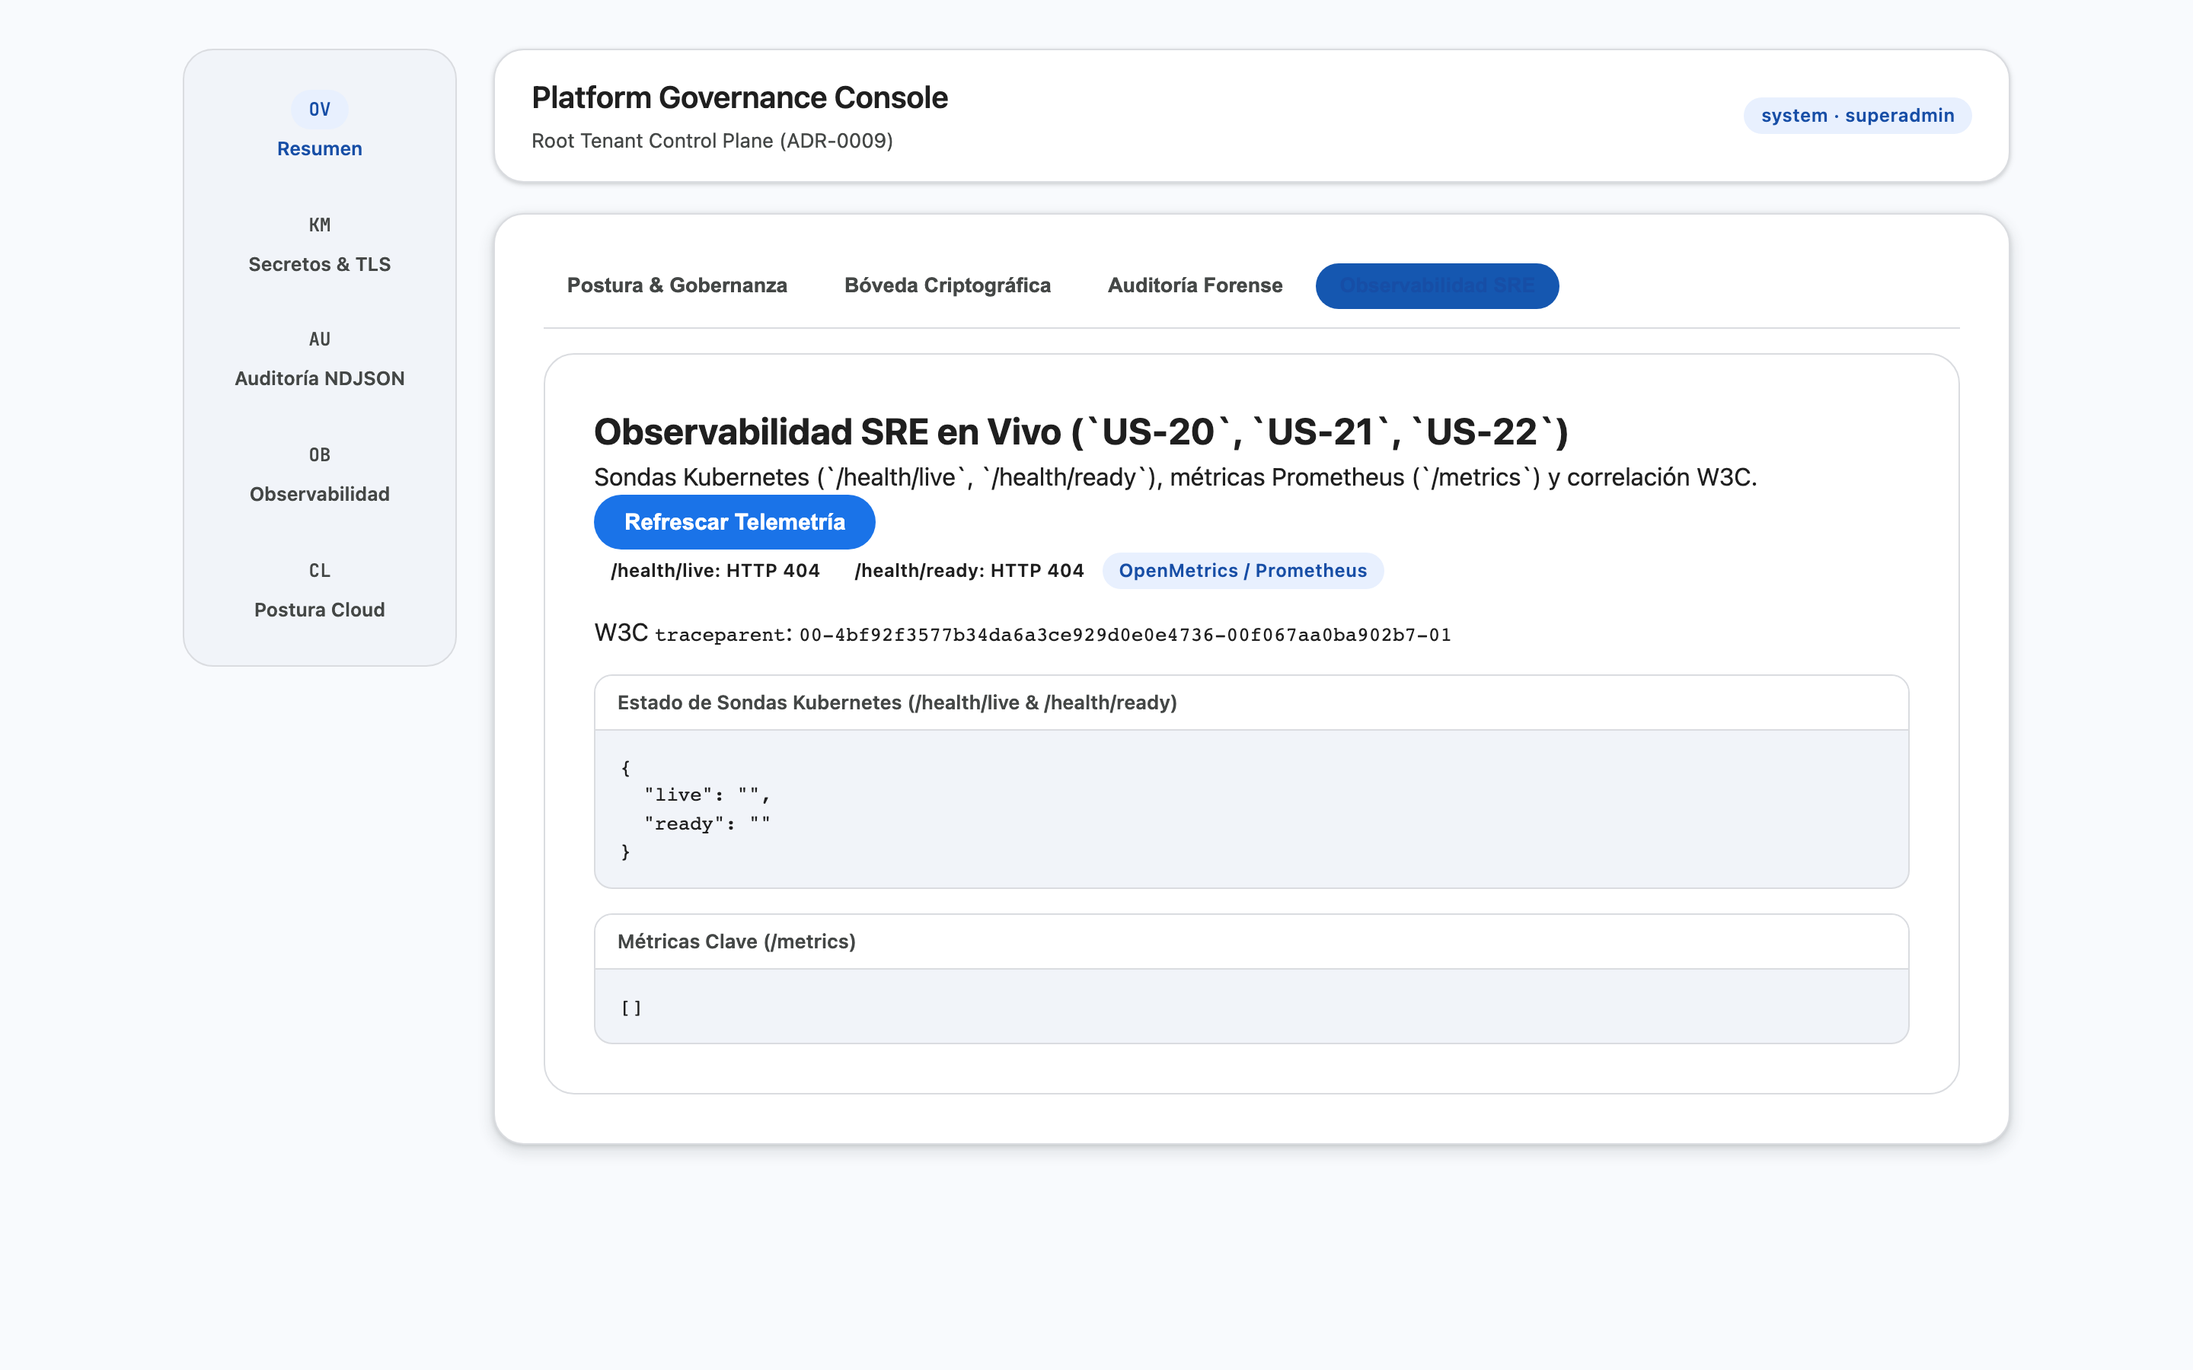
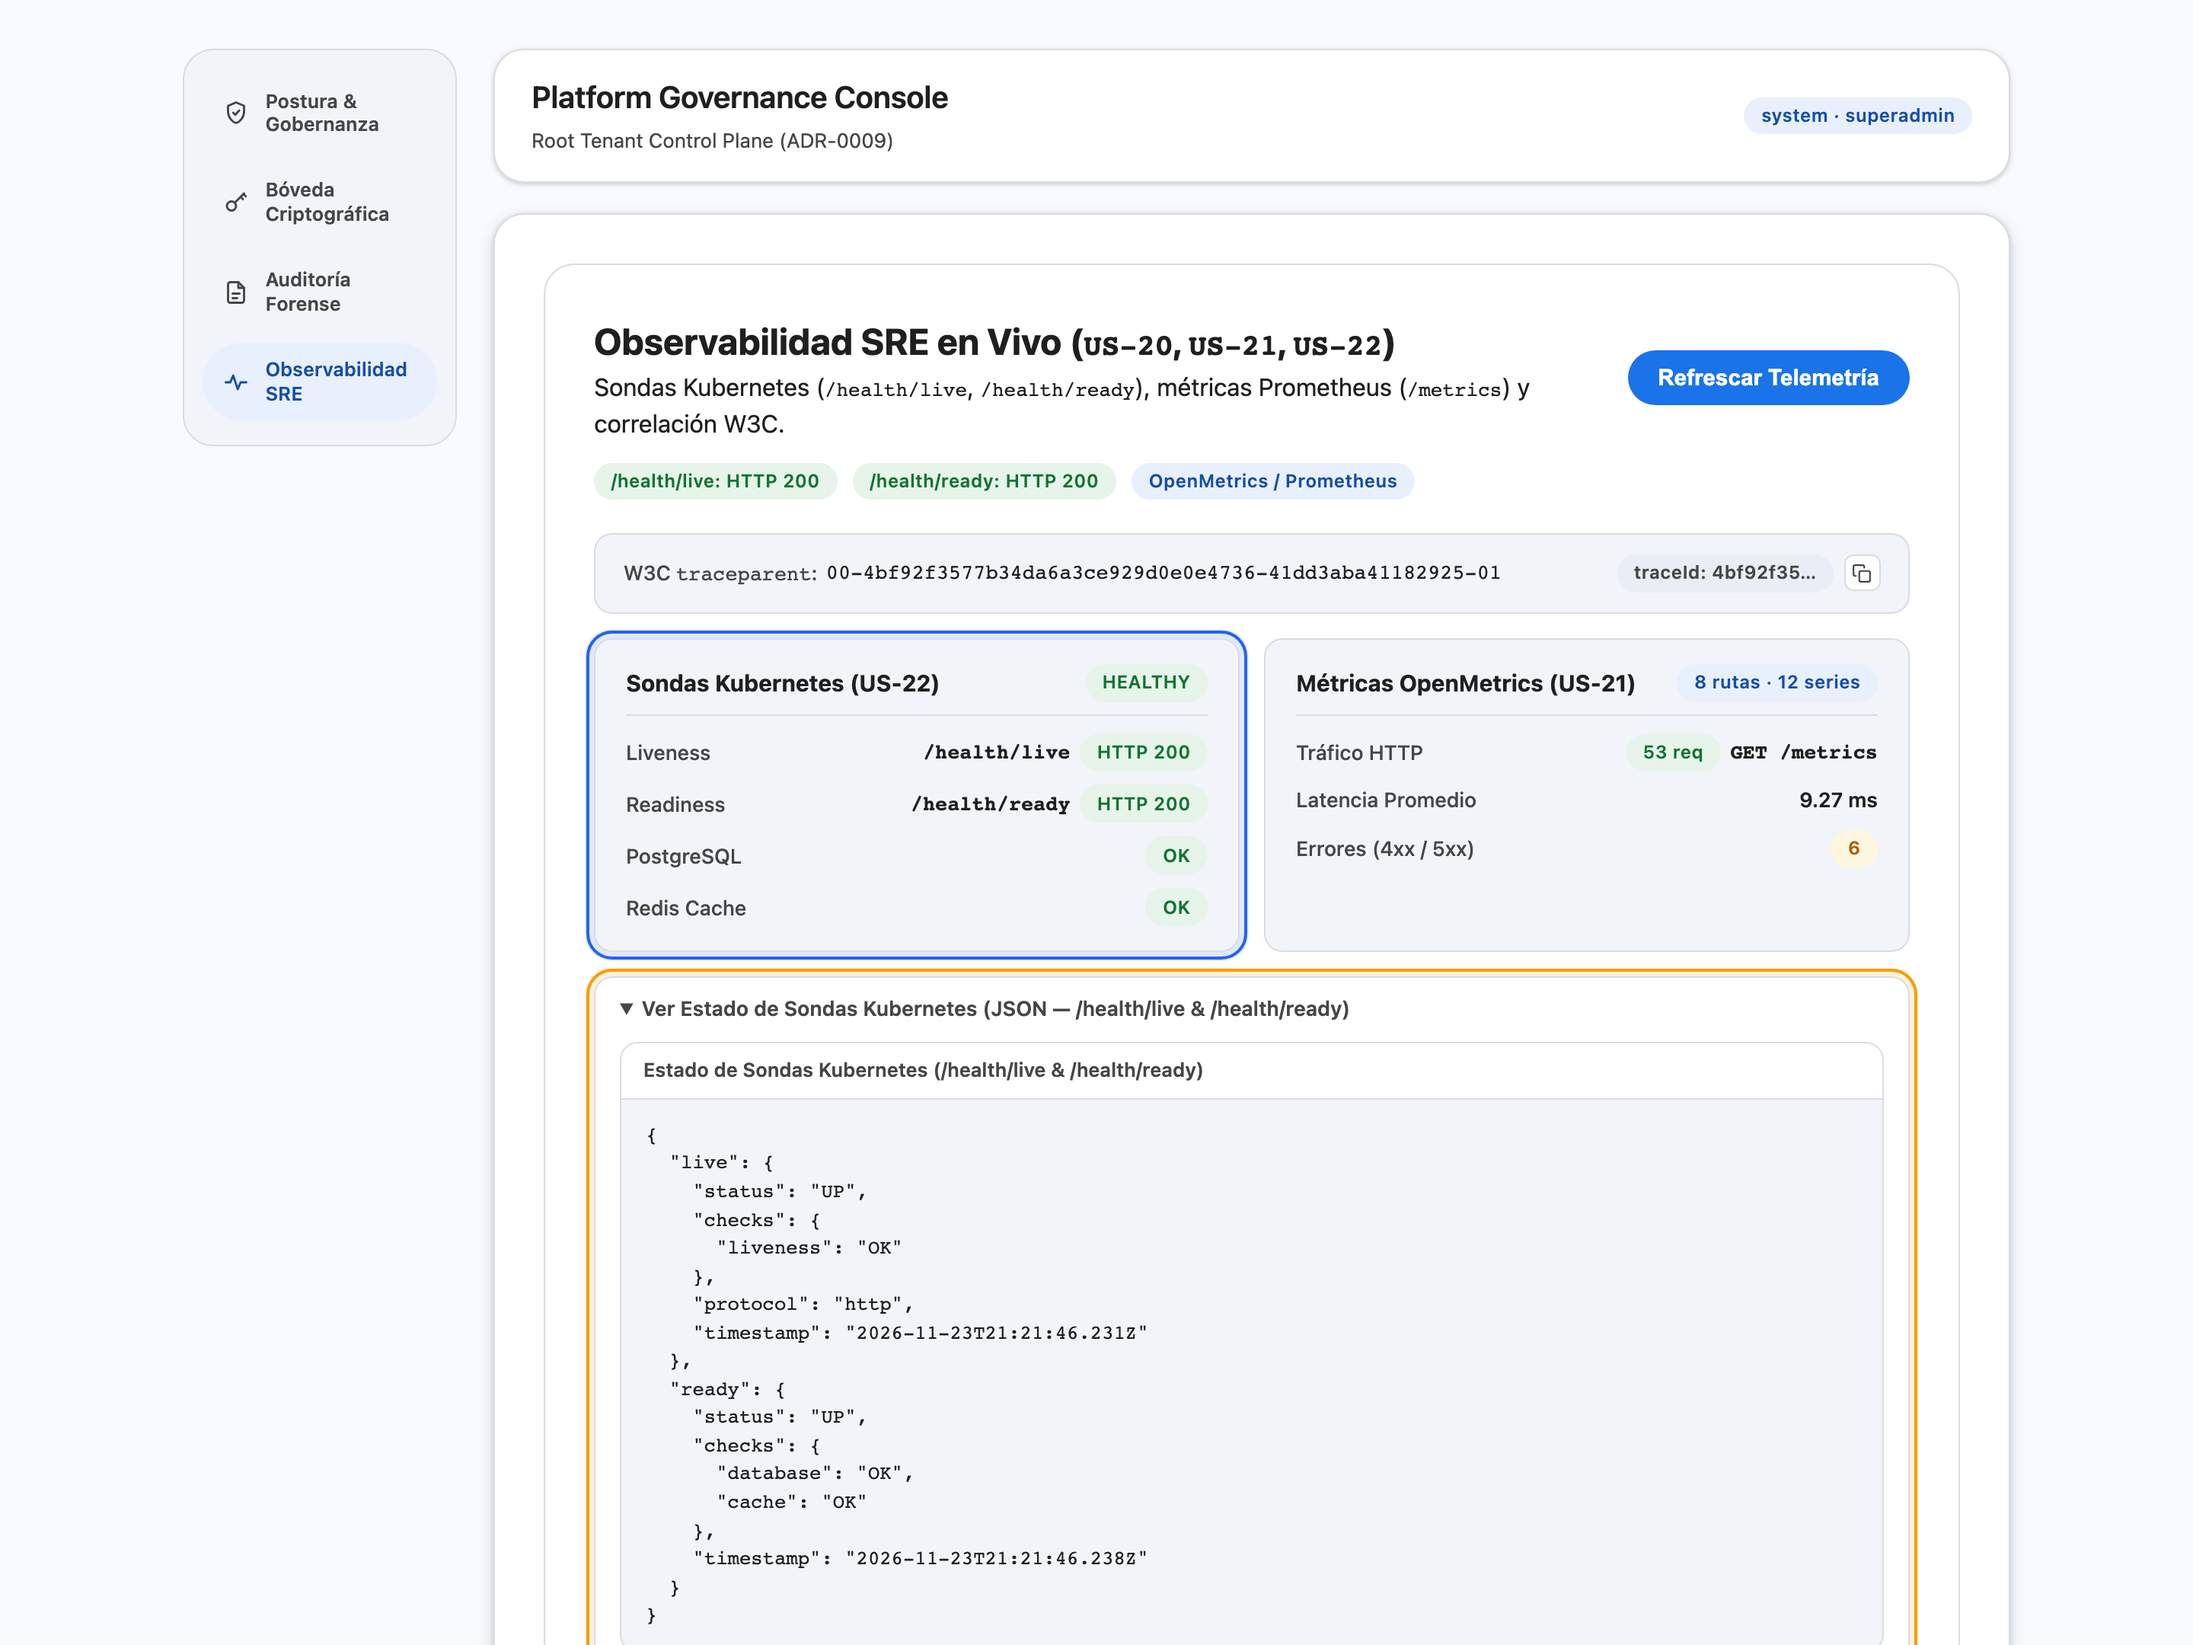
feat(ui,docs): show PostgreSQL/Redis checks in SreObservabilityPanel and standardize US-22 doc

diff --git a/interfaces/web/client/contexts/platform/ui/SreObservabilityPanel.tsx b/interfaces/web/client/contexts/platform/ui/SreObservabilityPanel.tsx
@@ -131,6 +131,11 @@ export function SreObservabilityPanel() {
   const extractedTraceId = snapshot?.traceparent?.split('-')[1] ?? '';
   const keyMetrics = snapshot ? extractKeyMetrics(snapshot.metricsRaw) : [];
   const goldenSignals = snapshot ? extractGoldenSignals(snapshot.metricsRaw) : null;
+  const readyBody = snapshot?.ready.body as
+    | { readonly checks?: { readonly database?: string; readonly cache?: string } }
+    | undefined;
+  const dbCheck = readyBody?.checks?.database;
+  const cacheCheck = readyBody?.checks?.cache;
 
   return (
     <div className="m3-stack">
@@ -160,7 +165,7 @@ export function SreObservabilityPanel() {
               />
               <M3Chip
                 label={`/health/ready: HTTP ${snapshot.ready.status}`}
-                tone={snapshot.ready.status === 200 ? 'success' : 'warning'}
+                tone={snapshot.ready.status === 200 ? 'success' : 'error'}
               />
               <M3Chip label="OpenMetrics / Prometheus" tone="primary" />
             </div>
@@ -208,7 +213,7 @@ export function SreObservabilityPanel() {
                   <h3 className="m3-posture-card__title">Sondas Kubernetes (US-22)</h3>
                   <M3Chip
                     label={snapshot.live.status === 200 && snapshot.ready.status === 200 ? 'HEALTHY' : 'DEGRADED'}
-                    tone={snapshot.live.status === 200 && snapshot.ready.status === 200 ? 'success' : 'warning'}
+                    tone={snapshot.live.status === 200 && snapshot.ready.status === 200 ? 'success' : 'error'}
                   />
                 </div>
                 <dl className="m3-posture-list">
@@ -223,9 +228,25 @@ export function SreObservabilityPanel() {
                     <dt>Readiness</dt>
                     <dd>
                       <code>/health/ready</code>
-                      <M3Chip label={`HTTP ${snapshot.ready.status}`} tone={snapshot.ready.status === 200 ? 'success' : 'warning'} />
+                      <M3Chip label={`HTTP ${snapshot.ready.status}`} tone={snapshot.ready.status === 200 ? 'success' : 'error'} />
                     </dd>
                   </div>
+                  {dbCheck && (
+                    <div className="m3-posture-row">
+                      <dt>PostgreSQL</dt>
+                      <dd>
+                        <M3Chip label={dbCheck} tone={dbCheck === 'OK' ? 'success' : 'error'} />
+                      </dd>
+                    </div>
+                  )}
+                  {cacheCheck && (
+                    <div className="m3-posture-row">
+                      <dt>Redis Cache</dt>
+                      <dd>
+                        <M3Chip label={cacheCheck} tone={cacheCheck === 'OK' ? 'success' : 'error'} />
+                      </dd>
+                    </div>
+                  )}
                 </dl>
               </section>
 

diff --git a/docs/showcase/08-distributed-observability.md b/docs/showcase/08-distributed-observability.md
@@ -682,16 +682,20 @@ curl -s "${BASE_URL}/health" | jq .
 
 #### 🌐 Demostración Interactiva en la UI (Navegador — `US-22`)
 
-1. **Prerrequisitos Root (`ADR-0009`):** Backend (`npm run dev:api` en `:4000`) y Vite (`npm run dev:web` en `:3000`) activos con sesión `system:superadmin` en `localStorage` (`identity_session`).
+1. **Prerrequisitos Root (`ADR-0009`):** Backend (`npm run dev:api` en `:4000`) y Vite (`npm run dev:web` en `:3000`) activos con sesión `system:superadmin` vigente en [`http://localhost:3000/platform`](http://localhost:3000/platform). Si expiró el JWT de 1 hora (`Invalid or expired token`), regenerá `SESSION_JSON` en `localStorage` siguiendo el paso `1)` de **Demostración Interactiva (`US-16`)** en [`07-fintech-compliance.md`](./07-fintech-compliance.md).
 2. **Caso Positivo (Sondas Kubernetes `liveness` & `readiness`):**
-   - Abre [`http://localhost:3000/platform`](http://localhost:3000/platform) y selecciona la pestaña **`Observabilidad SRE`**.
+   - Abre [`http://localhost:3000/platform`](http://localhost:3000/platform) y selecciona **`Observabilidad SRE`** en la barra lateral izquierda.
    - Pulsa **`Refrescar Telemetría`** → consulta simultáneamente `GET /health/live` y `GET /health/ready`.
-   - Verifica los chips **`/health/live: HTTP 200`** (verde) y **`/health/ready: HTTP 200`** (verde), junto con el detalle JSON en **Estado de Sondas Kubernetes (`/health/live & /health/ready`)** (`M3JsonViewer`).
-3. **Caso Negativo (Degradación de Readiness `503`):**
-   - Si una dependencia crítica (PostgreSQL o Redis) se detiene y pulsas **`Refrescar Telemetría`**, `/health/ready` cambia de verde a tono de advertencia/error reflejando el código HTTP `503` mientras `/health/live` permanece en `HTTP 200`.
-4. **Verificación Técnica & Trazabilidad E2E:** Comprueba `traceparent` W3C en **DevTools → Network**; `tests/e2e/web/platform_console.spec.tsx` (Scenario 5).
+   - Verifica los chips **`/health/live: HTTP 200`** y **`/health/ready: HTTP 200`**, el desglose en la tarjeta **Sondas Kubernetes (`US-22`)** (**`HEALTHY`**, **`PostgreSQL: OK`**, **`Redis Cache: OK`**) y opcionalmente el acordeón **Ver Estado de Sondas Kubernetes (`JSON — /health/live & /health/ready`)**.
 
-![Consola /platform Observabilidad SRE en Material Design 3](./assets/screenshots/ui_platform_sre.png)
+   ![Consola /platform Observabilidad SRE — Sondas Kubernetes HEALTHY (US-22)](./assets/screenshots/ui_platform_sre.png)
+
+3. **Caso Negativo (Degradación de Readiness `503`):**
+   - Si una dependencia crítica (PostgreSQL o Redis) se detiene y pulsas **`Refrescar Telemetría`**, `/health/ready` cambia a rojo **`HTTP 503`** (`DEGRADED`, mostrando la dependencia afectada en `ERROR`) mientras `/health/live` permanece en **`HTTP 200`**.
+
+   ![Consola /platform Observabilidad SRE — Readiness 503 DEGRADED (US-22)](./assets/screenshots/us22_sre_probes_degraded.png)
+
+4. **Verificación Técnica & Trazabilidad E2E:** Comprueba `traceparent` W3C en **DevTools → Network** (filtro **`XHR`** → `GET /health/ready` → pestaña **`Headers`**); `tests/e2e/web/platform_console.spec.tsx` (Scenario 5).
 
 ---
 
